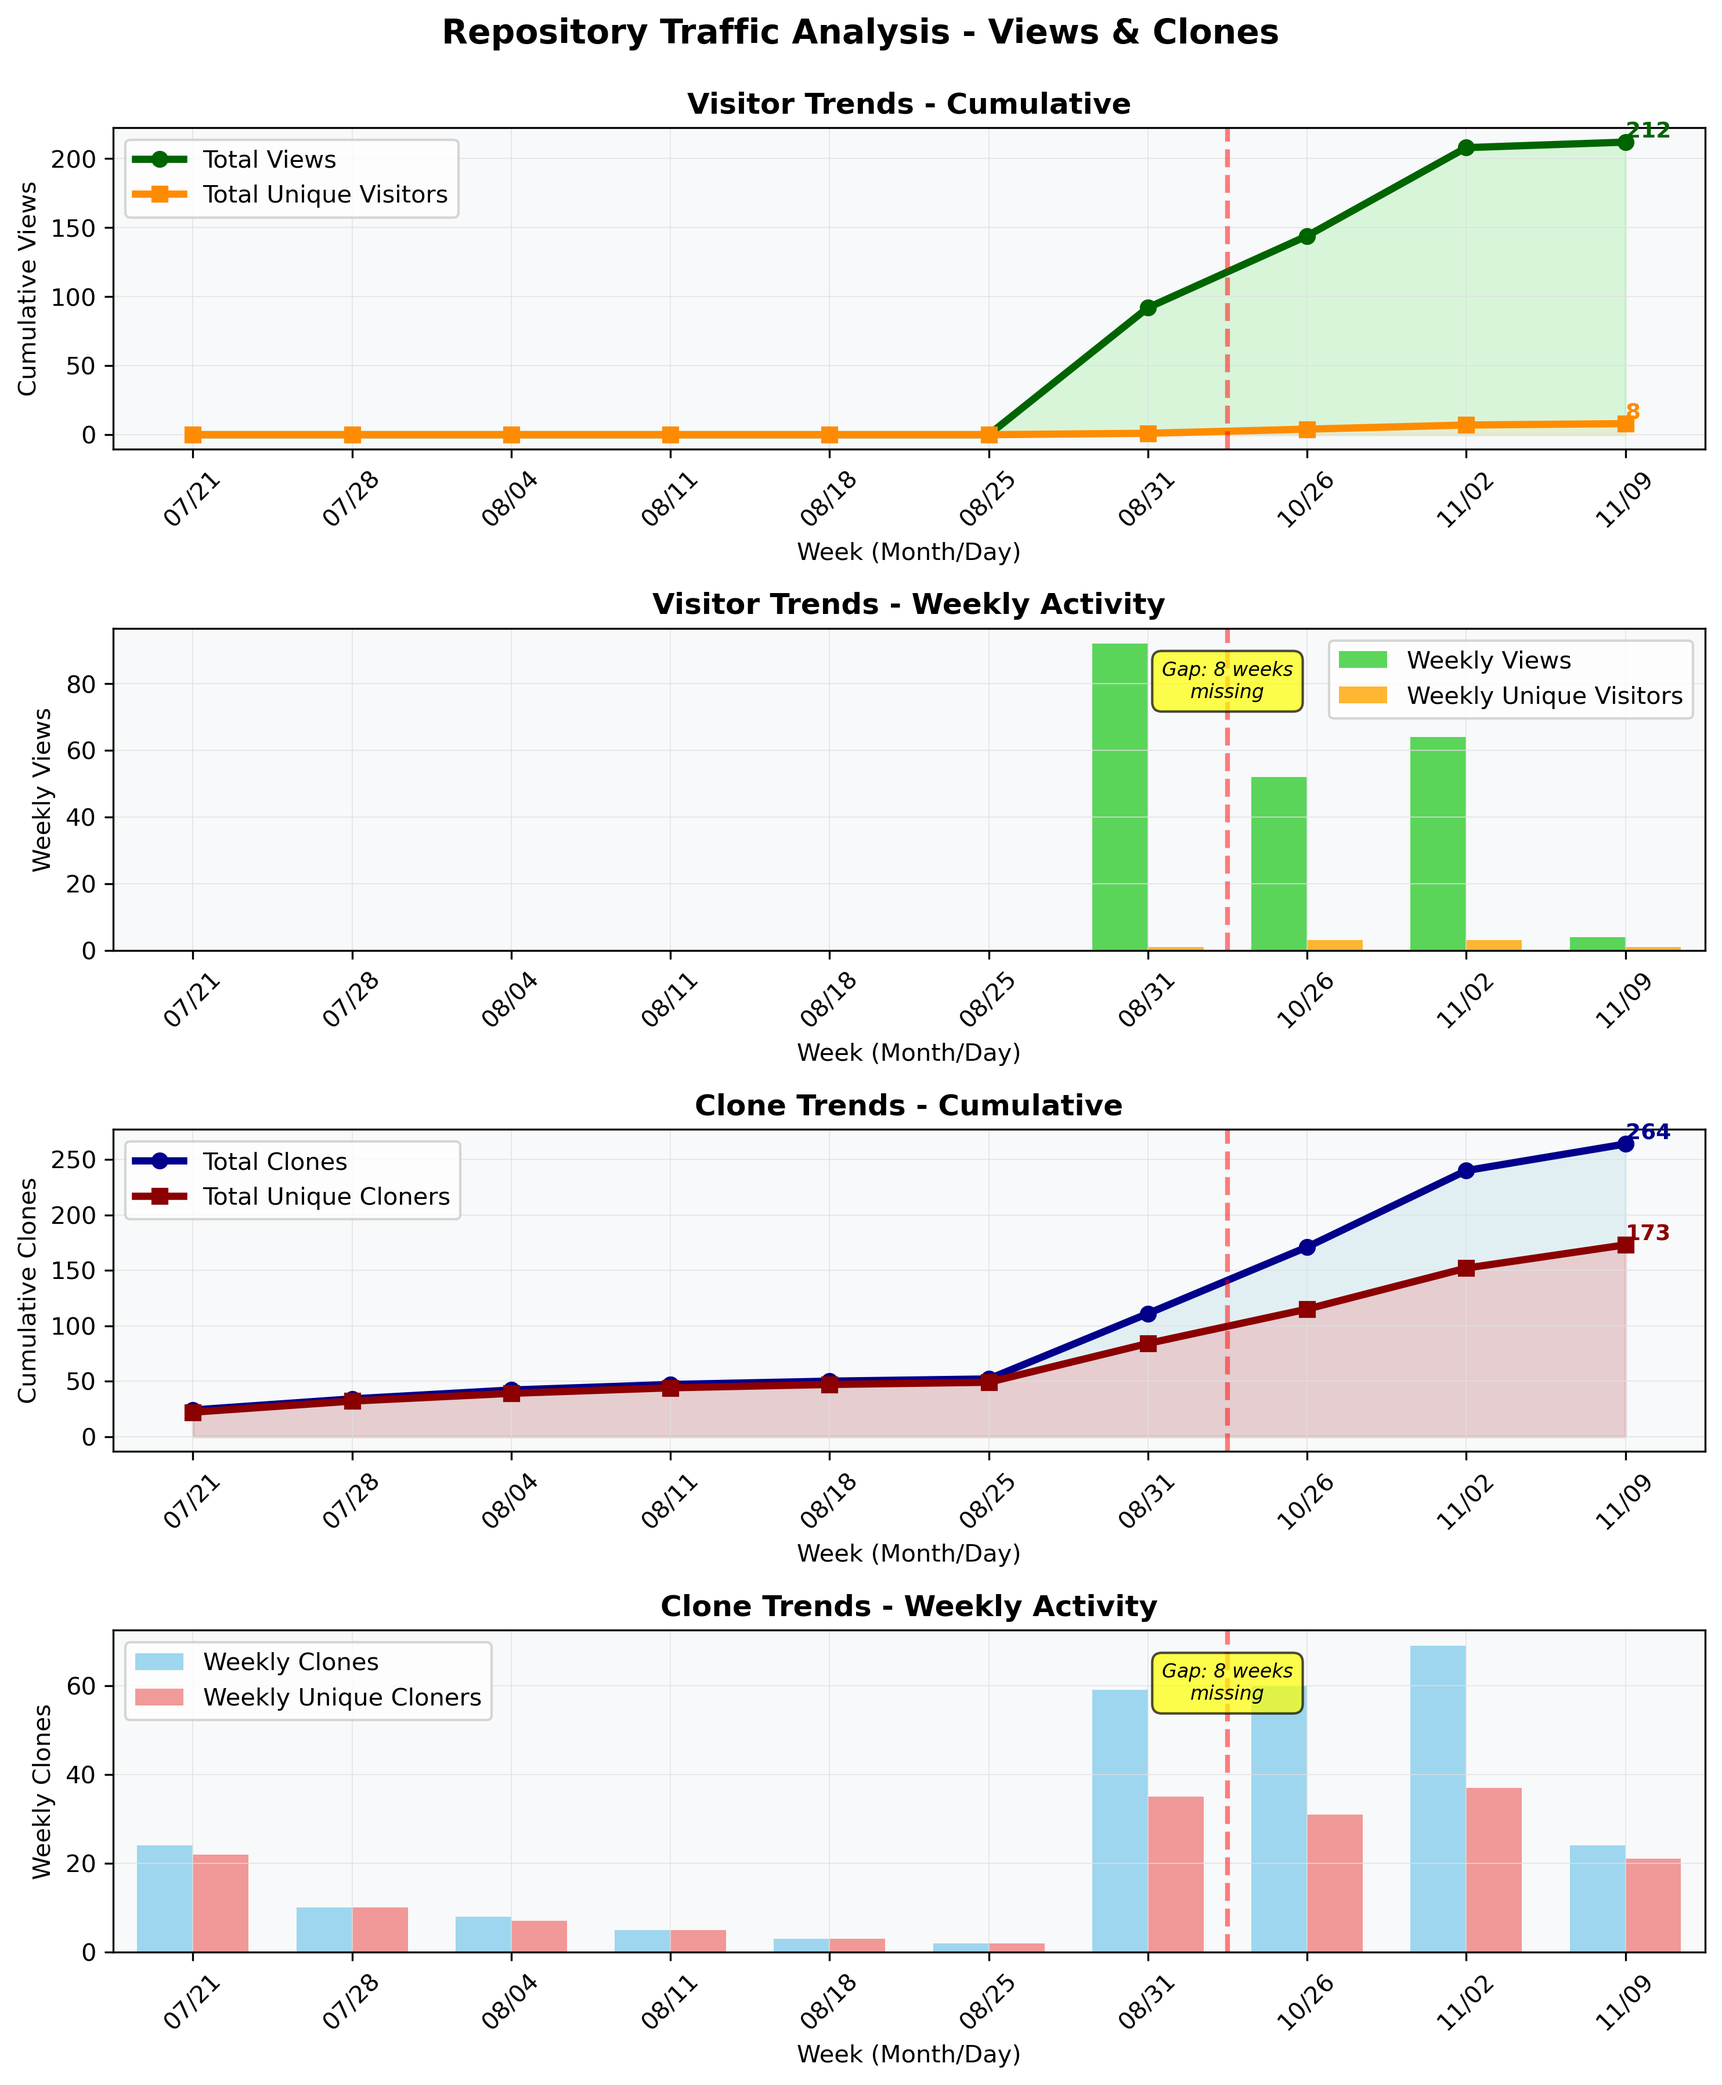
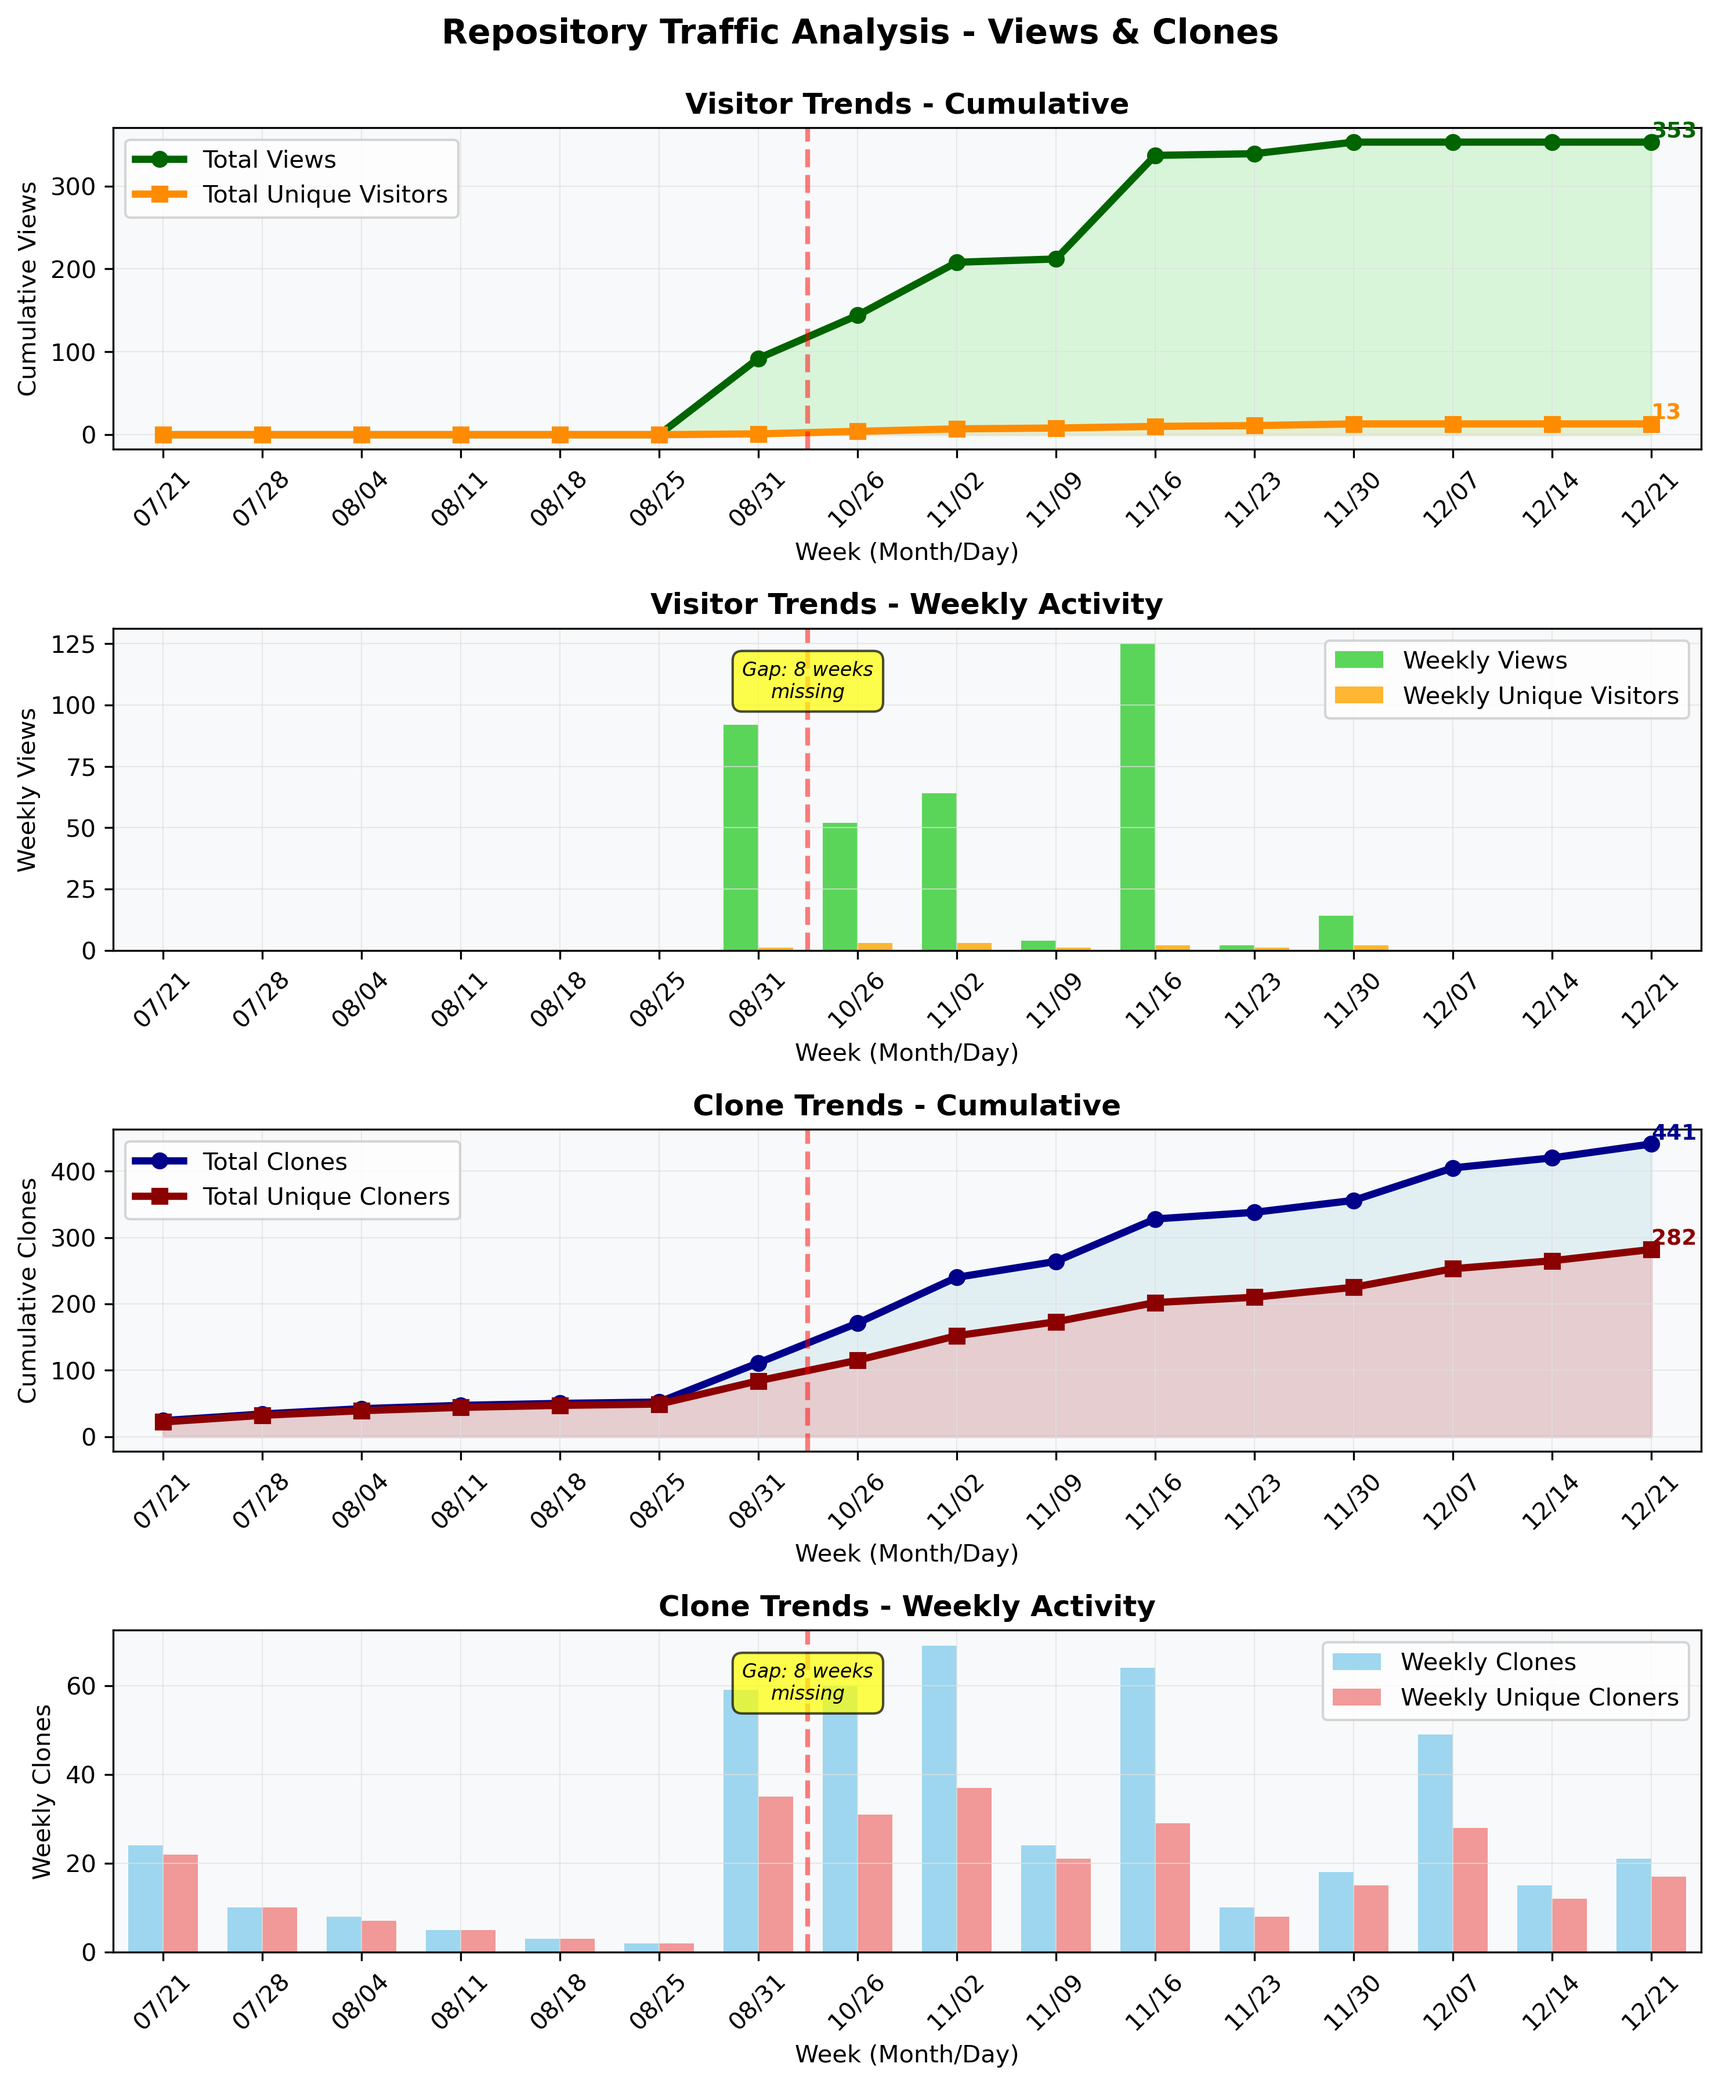
Invert the taxonomic order of stacked arcs

diff --git a/source files/progress_StackedRainbow.html b/source files/progress_StackedRainbow.html
@@ -71,7 +71,9 @@
           data.forEach((item, index) => {
             if(index % 2 == 1) {
               const i = Math.floor(index / 2)
-              item.data[i].value = item.data[i].value - data[index - 1].data[i].value
+              // Use inverted index to match the inverted data positioning
+              const invertedI = 5 - i;
+              item.data[invertedI].value = item.data[invertedI].value - data[index - 1].data[invertedI].value
             }
           })
           option.series = data
@@ -117,34 +119,47 @@
         const chartDom = document.getElementById("legendContainer");
         const myChart = echarts.init(chartDom);
         const offsetX = chartDom.clientWidth / 2;
-        const reverseLegends = legends.reverse()
+        // For display: species (outer) on left, phylum (inner) on right
+        // This positions outer arc labels/totals on left, inner arc labels/totals on right
+        // legends come in [species, genus, family, order, class, phylum] order - use as is
+        const displayLegends = [...legends];
         const names = []
         const totals = []
         const EBP = []
         const INSDC = []
         const contrasts = []
         
-        // Define individual offsets for each taxonomic rank
-        const nameOffsets = {
-          'phylum': 0,
-          'class': 0, 
-          'order': -5,
-          'family': -10,
-          'genus': -15,
-          'species': -22
+        // Define individual offsets to align labels under their corresponding arcs
+        // Species (outer, widest) on left, phylum (inner, narrowest) on right
+        // Positive = shift right, Negative = shift left
+        const labelOffsets = {
+          'species': -45,  // outer arc - shift left towards edge
+          'genus': -50,    // shift left
+          'family': -55,     // middle position
+          'order': -55,     // slight shift right
+          'class': -60,     // shift right
+          'phylum': -70     // inner arc - shift right towards center
+        };
+
+        // Define individual offsets for totals (separate from labels)
+        // Adjust these to fine-tune total positioning under each arc
+        const totalOffsets = {
+          'species': -35,  // outer arc
+          'genus': -40,
+          'family': -50,
+          'order': -55,
+          'class': -65,
+          'phylum': -70     // inner arc
         };
         
-        reverseLegends.forEach(item => {
+        // Build names array from displayLegends (species → phylum, left to right)
+        displayLegends.forEach(item => {
           names.push({
             type: 'total',
             text: item.name,
             color: item.color,
-            offset: nameOffsets[item.name] || 0  // Apply custom offset if available
-          })
-          totals.push({
-            type: 'total',
-            text: item.total,
-            color: '#000000'
+            labelOffset: labelOffsets[item.name] || 0,  // Label position offset
+            totalOffset: totalOffsets[item.name] || 0   // Total position offset
           })
           EBP.push({
             type: 'rect',
@@ -160,6 +175,16 @@
             type: 'text',
             text: `${(item.contrast * 100).toFixed(1)}%`,
             color: item.color
+          })
+        })
+
+        // Build totals array from reversed order (phylum → species) to maintain correct positioning
+        const reversedLegends = [...displayLegends].reverse();
+        reversedLegends.forEach(item => {
+          totals.push({
+            type: 'total',
+            text: item.total,
+            color: '#000000'
           })
         })
         EBP.push({
@@ -184,7 +209,7 @@
             bounding: 'all',
             children: []
           }
-          const width = Math.floor(document.getElementById('chartContainer').clientHeight / reverseLegends.length)
+          const width = Math.floor(document.getElementById('chartContainer').clientHeight / displayLegends.length)
           group.forEach((item, index) => {
             if(item.type == 'text') {
               const text = getGraphicOption('text', item)
@@ -199,10 +224,12 @@
               groupOption.children.push(text)
             } else if(item.type == 'total') {
               const text = getGraphicOption('text', item)
-              text.left = index * width + (item.offset || 0)  // Apply custom offset here
+              text.left = index * width + (item.labelOffset || 0)  // Apply label offset
               groupOption.children.push(text)
-              const total = getGraphicOption('text', totals[totals.length - 1 - index])
-              total.left = index * width + document.getElementById('chartContainer').clientHeight + width / 2
+              // Totals: now ordered species (left) to phylum (right)
+              const total = getGraphicOption('text', totals[index])
+              // Apply total offset (can be different from label offset)
+              total.left = index * width + document.getElementById('chartContainer').clientHeight + width / 2 + (item.totalOffset || 0)
               groupOption.children.push(total)
             }
           })
@@ -233,8 +260,8 @@
       }
 
       function renderTaxaPanel(legends) {
-        // Display order: phyla (top) to species (bottom)
-        const displayOrder = ['phylum', 'class', 'order', 'family', 'genus', 'species'];
+        // Display order in panel: species (top/outer) to phylum (bottom/inner) - matches inverted visual
+        const displayOrder = ['species', 'genus', 'family', 'order', 'class', 'phylum'];
         const pluralLabels = {
           'phylum': 'phylum',
           'class': 'class',
@@ -276,8 +303,9 @@
           formatStackedUmbrellaData(url1, url2, annimationDelay).then(({
             stackedData, legends
           }) => {
-            const species = stackedData.filter(item => (item.name == 'species'))
-            species.forEach((item, index) => {
+            // Adjust label offsets for inverted layout (phylum inner, species outer)
+            const phylum = stackedData.filter(item => (item.name == 'phylum'))
+            phylum.forEach((item, index) => {
               if(index == 0) {
                 item.label.offset = [0, -2]
               } else {

diff --git a/source files/services.js b/source files/services.js
@@ -112,10 +112,12 @@ async function fetchData(url) {
           show: false
         }
       }]
-      arr[index].value = d.data[0].value
-      arr[index].description = `${sourceName}-${d.name}: ${d.data[0].description}`
-      arr[index].label.show = true
-      arr[index].label.rotate = 0
+      // Invert index to place phylum inner (index 0) and species outer (index 5)
+      const invertedIndex = 5 - index;
+      arr[invertedIndex].value = d.data[0].value
+      arr[invertedIndex].description = `${sourceName}-${d.name}: ${d.data[0].description}`
+      arr[invertedIndex].label.show = true
+      arr[invertedIndex].label.rotate = 0
       d.data = arr
       // d.stack = index
       d.stack  = 'a'
@@ -139,11 +141,13 @@ async function fetchData(url) {
         //   }
         // })
         INSDC.forEach((item, index) => {
-          let ratio = item.data[index].value / EBP[index].data[index].value
-          if(EBP[index].data[index].value < 5) {
-            EBP[index].data[index].value = EBP[index].data[index].value + 1
+          // Use inverted index to match the inverted data positioning
+          const invertedIndex = 5 - index;
+          let ratio = item.data[invertedIndex].value / EBP[index].data[invertedIndex].value
+          if(EBP[index].data[invertedIndex].value < 5) {
+            EBP[index].data[invertedIndex].value = EBP[index].data[invertedIndex].value + 1
             ratio = Math.min(ratio, 3)
-            item.data[index].value = EBP[index].data[index].value * ratio
+            item.data[invertedIndex].value = EBP[index].data[invertedIndex].value * ratio
           }
           // item.data[index].value = item.data[index].value - EBP[index].data[index].value
           // item.animationDelay = function() {
